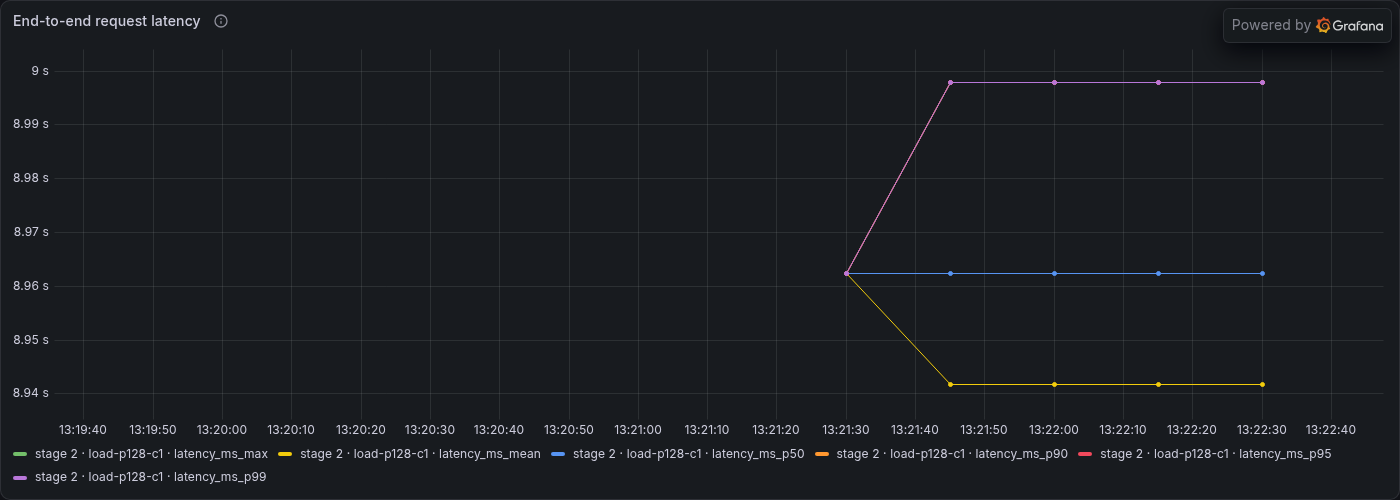
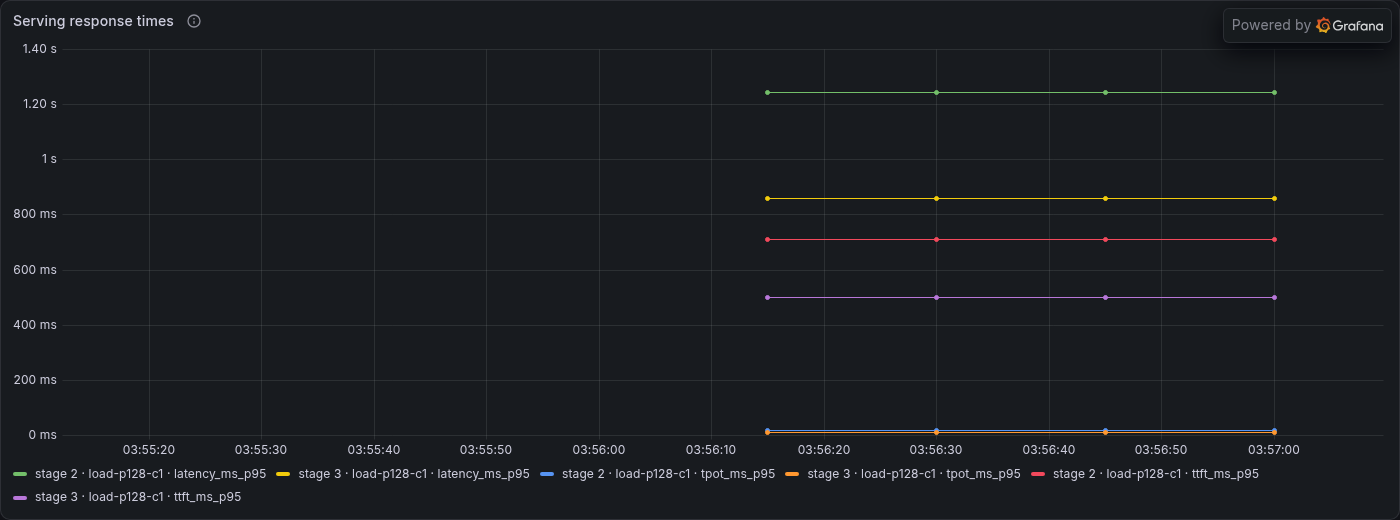
docs: document remote setup and refresh Grafana examples
Clarify local and remote prerequisites, source upgrades, tiny-model validation, SSH architecture, cleanup, and troubleshooting. Replace the previous screenshots with panels from the validated SmolLM2 remote run and describe their measurements and time range.

diff --git a/README.md b/README.md
@@ -1,12 +1,14 @@
 # 📊 ModelGauge
 
-Benchmark GGUF models on a Linux node before deployment: measure **throughput, request latency, and resource use**, watch live Grafana dashboards, and export the evidence.
+Benchmark GGUF models in a Linux VM on your Mac or another Mac over SSH. Measure **throughput, request latency, and resource use**, watch live Grafana dashboards, and export results before deployment.
 
 One Go executable manages one control VM, one benchmark VM, and one selected model. Install multiple models and compare them sequentially using the same YAML workload. Commands run in the foreground; there is no application database, job queue, or automatic recovery. **Run one command at a time**—execution locks do not prevent overlapping commands.
 
 ## 🚀 Install
 
-**Build prerequisites:** Go 1.23.6+, Git, and Make. **Runtime prerequisites:** Lima (`limactl` on PATH with working virtualization) and internet access for VM images, dependencies, containers, and models. Docker Desktop is not required.
+**On the computer running the CLI:** Go 1.23.6+, Git, and Make to build; Lima (`limactl` on PATH with working virtualization) to run the control VM. Internet access is required for images, dependencies, and models. Docker Desktop is not required.
+
+**For a remote benchmark Mac:** macOS 13.5+, hardware virtualization, Remote Login enabled for your account, and network access from the controller. Keep it awake with its lid open. Defaults require at least 32 GiB free disk and enough RAM for a 3 GiB VM plus macOS. ModelGauge installs Lima and the worker remotely; no Homebrew, Go, or manual VM preparation is needed there.
 
 ```sh
 git clone https://github.com/ashwat287/modelGauge.git
@@ -17,68 +19,88 @@ make install
 export PATH="$HOME/.local/bin:$PATH"
 ```
 
-`make install` installs to `~/.local/bin`; override with `BINDIR=/your/bin`. Keep the PATH export in your shell profile. The installed binary bundles Linux ARM64/AMD64 runtimes and deployment assets, so it works after deleting the checkout, without host Go, Git, or Make.
+`make install` installs to `~/.local/bin`; override with `BINDIR=/your/bin`. Keep the PATH export in your shell profile. The installed binary bundles Linux workers, macOS management helpers, and deployment assets for Intel/AMD64 and ARM64. It works after deleting the checkout; copy any example YAML you want to keep first. Go, Git, and Make are only needed again when rebuilding.
 
 ## 🏗 Set up
 
+From the checkout, copy the [small validation plan](examples/remote-smoke.yaml) into a working directory:
+
 ```sh
 mkdir -p "$HOME/modelgauge-lab"
+cp examples/remote-smoke.yaml "$HOME/modelgauge-lab/benchmark.yaml"
 cd "$HOME/modelgauge-lab"
+```
+
+Choose **one** mode for the workspace. Setup provisions infrastructure; it is separate from installing the CLI and needs no source checkout.
+
+### Local: both VMs on this Mac
+
+```sh
 modelgauge setup
 ```
 
-Setup provisions services and builds pinned CPU-only llama.cpp binaries in the benchmark VM. It is separate from installing the CLI and needs no source checkout.
-
-| Default VM | CPUs | RAM | Disk |
-|---|---:|---:|---:|
-| `modelgauge-control` | 4 | 6 GiB | 50 GiB |
-| `benchmark-node` | 2 | 3 GiB | 30 GiB |
-
-Allow host memory **beyond the 9 GiB allocated to VMs**; these defaults are unsuitable for an 8 GiB laptop. To change allocations for newly created VMs:
-
-```sh
-modelgauge setup --control-memory 4 --node-memory 4 --node-cpus 2
-```
-
-Flags do not resize existing VMs. Private configuration and ownership records live in `~/.config/modelgauge/`. For upgrades, reinstall from source and rerun setup while idle. Legacy PostgreSQL workspaces require export and cleanup with the previous version; history is not migrated.
-
-### Benchmark on another Mac over SSH
-
-On the target Mac, enable **Remote Login**, allow your account, and keep the Mac awake and reachable. The supported remote setup requires macOS 13.5+, hardware virtualization, internet access, and enough free disk for the VM. You do not need to install Lima, Homebrew, Go, or ModelGauge there.
+### Remote: benchmark VM on another Mac
 
 ```sh
 modelgauge setup --remote-host your-user@192.168.1.50
 ```
 
-Verify the printed SSH host-key fingerprint and enter the SSH password at the hidden prompt. For key authentication, add `--identity /path/to/private-key` (an unencrypted bootstrap key); `--host-key SHA256:...` supplies an already verified fingerprint without the trust prompt. Credentials are used once and are not saved; dedicated scoped keys are kept privately by the controller.
+Verify the printed host-key fingerprint, type `yes`, and enter the SSH password at the hidden prompt. The target Mac's public fingerprint can be checked there with `ssh-keygen -lf /etc/ssh/ssh_host_ed25519_key.pub`.
 
-The control VM installs pinned Lima in a private directory on the remote Mac, creates a pinned Ubuntu 24.04 **2-vCPU / 3-GiB / 30-GiB VM**, and prepares its worker and llama.cpp. No personal Lima VMs or host-directory mounts are used. Both host and guest SSH keys are pinned. The controller connects through the Mac, so the guest SSH port stays on loopback; the Mac's SSH server must allow TCP forwarding. Subsequent `modelgauge setup` reuses the remote target. Clean up the existing workspace before switching between local and remote nodes.
+For key authentication or a custom SSH port:
 
-Start with the pinned **SmolLM2-135M Instruct Q4_K_M** model (~105 MB) and copy [examples/remote-smoke.yaml](examples/remote-smoke.yaml) into your working directory as `benchmark.yaml`:
+```sh
+modelgauge setup --remote-host your-user@192.168.1.50:2222 \
+  --identity /path/to/private-key \
+  --host-key SHA256:YOUR_VERIFIED_FINGERPRINT
+```
+
+`--identity` accepts an unencrypted bootstrap private key; omit it to use the password prompt. `--host-key` skips the trust prompt only when the fingerprint matches. Supplied passwords and bootstrap private keys are not saved; the controller stores dedicated scoped keys for subsequent operations.
+
+The **control VM** installs private, checksum-verified Lima, creates a pinned Ubuntu 24.04 VM, and prepares CPU-only llama.cpp and the Linux worker. Execution goes through the Mac into the guest over SSH. The guest SSH port stays on loopback; the Mac's SSH server must allow TCP forwarding. Personal Lima instances and host directories are not shared with the benchmark VM.
+
+| VM | CPUs | RAM | Disk | Location |
+|---|---:|---:|---:|---|
+| `modelgauge-control` | 4 | 6 GiB | 50 GiB | Computer running the CLI |
+| `benchmark-node` | 2 | 3 GiB | 30 GiB | Same computer, or remote Mac |
+
+Local defaults allocate **9 GiB on one computer**, which is unsuitable for an 8 GiB laptop. Remote mode splits the allocations between machines. Leave host OS headroom on both. Override resources for new VMs, for example:
+
+```sh
+modelgauge setup --remote-host your-user@192.168.1.50 \
+  --control-memory 4 --node-memory 3 --node-cpus 2 --node-disk 30
+```
+
+Resource flags do not resize existing VMs. Subsequent `modelgauge setup` reuses the configured mode and target. Export needed results and run `modelgauge cleanup --delete-vms` before switching modes. Private local configuration lives in `~/.config/modelgauge/`; remote ownership and execution credentials are retained by the controller.
+
+For source updates, rebuild with `make install` and rerun setup while idle. For a remote target, repeat the `setup --remote-host ...` command with login credentials to update its management helper too. Legacy PostgreSQL history is not migrated; export and clean up with the previous version first.
+
+## 🧪 Install a model and benchmark
+
+Start with the pinned **SmolLM2-135M Instruct Q4_K_M** model (~105 MB). With the example copied above:
 
 ```sh
 modelgauge model install smollm2-135m-instruct:q4_k_m
-modelgauge validate benchmark.yaml
+modelgauge validate benchmark.yaml &&
 modelgauge run benchmark.yaml
-modelgauge export --output ./exports/remote-smoke --include-raw
 ```
 
-The example tests both benchmark stages, threads 1/2, a 128-token prompt, and three short serving requests. Dashboards and the 60-second cooldown work as usual. Results describe the Linux VM, not native macOS. `cleanup --delete-vms` also removes the owned remote VM and private installation; unrelated files and VMs remain intact. An unreachable remote Mac blocks cleanup before the controller is removed.
+Installation downloads on the benchmark node, verifies the checksum, selects the model, and waits for completion. The small example tests threads 1/2, a 128-token prompt, three direct repetitions, and three serving requests with a 32-token output cap. It validates the workflow; use longer runs to assess stability and deployment capacity.
 
-## 🧪 Install a model and benchmark
+To try a larger catalog model:
 
 ```sh
 modelgauge model search qwen
 modelgauge model install qwen2.5-1.5b-instruct:q4_k_m
 ```
 
-Installation downloads on the node, verifies the checksum, and selects the model when complete. The catalog includes Qwen2.5 1.5B Instruct Q4_K_M, Q5_K_M, and Q8_0. For another compatible GGUF:
+The catalog also provides Qwen2.5 1.5B Instruct Q5_K_M and Q8_0. Each successful install selects that model. Both local and remote modes use the same commands and plans. For your own GGUF, supply its HTTPS URL and SHA-256:
 
 ```sh
 modelgauge model install my-model:q4 --url "$MODEL_URL" --sha256 "$MODEL_SHA256"
 ```
 
-Save `benchmark.yaml` outside the checkout:
+For a longer workload, replace `benchmark.yaml` with:
 
 ```yaml
 apiVersion: modelgauge.io/v1alpha1
@@ -133,7 +155,7 @@ To compare another installed model or capture JSON:
 
 ```sh
 modelgauge model list
-modelgauge model use qwen2.5-1.5b-instruct:q5_k_m
+modelgauge model use smollm2-135m-instruct:q4_k_m
 modelgauge run benchmark.yaml
 modelgauge run benchmark.yaml --json > experiment.json
 ```
@@ -211,23 +233,23 @@ Collection spans warmup, stage transitions, and cooldown. Process readings end a
 
 ### Grafana examples
 
-Real Qwen2.5 1.5B Instruct Q4_K_M measurements from a Lima VM; times are UTC. Your results will differ.
+Captured from the **Live experiment** dashboard for the validated **SmolLM2-135M Instruct Q4_K_M** run on the remote Mac's Linux VM. The selected window is **24 November 2026, 22:25:12–22:27:09 UTC**; screenshot axes show **25 November, 03:55–03:57 IST**. Flat segments retain measured results through cooldown; they are not new benchmark samples.
 
-**Throughput:** prompt processing and generation are separate workloads; steps represent newly completed results.
+**Direct throughput:** prompt processing and generation at one and two threads. Compare like workloads; prompt tokens/s and generation tokens/s describe different work.
 
-![Grafana prompt and generation throughput in tokens per second](docs/images/grafana-throughput.png)
+![Grafana direct throughput for SmolLM2 prompt and generation workloads at one and two threads](docs/images/grafana-throughput.png)
 
-**Request latency:** complete-answer timing. Overlapping percentiles in this small run do not establish a reliable production p99.
+**Memory baseline:** the separate memory workload's peak RSS and the 1.25× reservation estimate—about 144 MiB and 180 MiB here. The estimate is not a concurrent-serving guarantee.
 
-![Grafana request latency mean and percentiles](docs/images/grafana-request-latency.png)
+![Grafana measured peak resident memory and suggested memory reservation](docs/images/grafana-memory-baseline.png)
 
-**Process memory:** RSS/PSS by stage; readings end when each owned process exits. Missing samples remain gaps.
+**Serving response times:** p95 total latency and time to first token, plus TPOT in milliseconds per token. These answer different questions; three requests per case do not establish a reliable production p95.
 
-![Grafana process resident and proportional memory](docs/images/grafana-process-memory.png)
+![Grafana serving response times showing latency, time to first token, and time per output token](docs/images/grafana-request-latency.png)
 
-**Node CPU:** workload activity followed by cooldown. About 50% on two vCPUs corresponds to one fully occupied vCPU.
+**Serving throughput:** successful requests per second for the serving stages. Goodput is absent because this example has no configured service targets; an unavailable value is not zero.
 
-![Grafana benchmark-node CPU during workload and cooldown](docs/images/grafana-node-cpu.png)
+![Grafana serving throughput for the two serving stages](docs/images/grafana-serving-throughput.png)
 
 ### Inspect and export
 
@@ -241,27 +263,35 @@ modelgauge export --output ./exports/baseline --include-raw
 
 Results and exports default to the latest completed run; use `--experiment NAME` for history. The recommender selects measured direct settings with relative deviation at most 10% and checks the 1.25× RSS estimate against your budget. It does not grade quality or optimize serving concurrency.
 
-Exports include JSON/CSV measurements, plans/results, metrics, a manifest, and checksums. `--include-raw` retrieves node evidence. Optional Prometheus-history flags are listed in `modelgauge export --help`.
+Exports include JSON/CSV measurements, plans/results, metrics, a manifest, and checksums. `--include-raw` retrieves node evidence, including from remote VMs through the controller. Optional Prometheus-history flags are listed in `modelgauge export --help`.
 
 ## 🔌 Architecture
+
+Remote mode:
 
 ```mermaid
 flowchart LR
   CLI[Host CLI] -->|Foreground HTTP stream| C
   subgraph Control[Control Linux VM · k3s]
-    C[Controller + executor + live snapshot] --> F[Configuration + completed result files]
+    C[Controller + executor] --> F[Configuration + completed results]
     P[Prometheus] -->|Scrape| C
     G[Grafana] -->|Query| P
   end
-  C -->|Pinned SSH · plan, progress and measurements| W
-  subgraph Node[Benchmark Linux VM]
-    W[Temporary supervised worker] --> B[llama-bench]
-    W --> S[Temporary llama-server]
-    W --> E[Installed models + raw evidence]
+  C -->|Pinned SSH| H
+  subgraph Mac[Remote benchmark Mac]
+    H[SSH + scoped Lima management] -->|Create and manage| Node
+    H -->|Pinned guest SSH| W
+    subgraph Node[Ubuntu benchmark VM]
+      W[Temporary worker] --> B[llama-bench]
+      W --> S[Temporary llama-server]
+      W --> E[Models + raw evidence]
+    end
   end
 ```
 
-For remote targets, SSH goes through the target Mac into its owned Linux VM; the controller also manages that VM over the same host connection. The controller owns execution through one restricted, host-key-pinned SSH interface. The node needs neither k3s nor a resident agent. **llama-bench exits before llama-server starts**; they never run together. Owned process groups are stopped and reaped on interruption or supervised connection loss. A temporary observer handles cooldown, then exits.
+In local mode, both VMs run on the CLI computer and the controller connects directly to the benchmark VM. In either mode, the Linux node needs neither k3s nor a resident agent. **llama-bench exits before llama-server starts**; they never run together. Measurements and progress return over SSH, while serving requests stay inside the benchmark VM, excluding inter-laptop network latency.
+
+Owned processes are stopped and reaped on interruption or supervised connection loss. A temporary observer handles the 60-second cooldown, then exits; Grafana remains available.
 
 Benchmark modules own planning, execution, reports, and metrics; platform code transports common plan/result envelopes. Completed configuration/results persist, but interrupted operations are not restored.
 
@@ -277,12 +307,21 @@ modelgauge cleanup --delete-vms         # Also delete ModelGauge-created VMs
 modelgauge cleanup --force --delete-vms # Stop owned work and delete created VMs
 ```
 
+Remote resources are cleaned before the local controller. With `--delete-vms`, cleanup also removes the owned remote VM, private Lima installation, and management key; the Mac and unrelated files/VMs are preserved. Without VM deletion, the remote management installation is retained with the VM. An unreachable remote Mac blocks cleanup so the controller and ownership records remain available.
+
 Cleanup prints plain text; add `--json` for scripts. Active work causes an error suggesting `--force`. Force retains ownership/identity checks and does not stop unrelated processes or expand deletion scope; stopping managed work requires a reachable controller. Checks are best-effort, so avoid concurrent commands.
 
-For SSH failures, fix the VM/network issue, refresh registration, then rerun the command:
+| Problem | Action |
+|---|---|
+| `flag provided but not defined: -remote-host` | Run `make install` from the updated checkout; check `command -v modelgauge` and `modelgauge setup --help`. |
+| SSH connection timeout | Keep the target awake, confirm Remote Login and network access, and try its current IP instead of `.local`. A TCP timeout happens before password authentication. |
+| Host-key mismatch | Verify the target's identity before proceeding; do not bypass the check. |
+| No selected model | Run `modelgauge model install MODEL` or select an installed model with `modelgauge model use MODEL`. |
+
+After fixing a VM/network problem, verify or refresh its connection, then rerun the interrupted command:
 
 ```sh
 modelgauge node reconnect
 ```
 
-Reconnect does not restart a broken VM or resume work. See `modelgauge --help` and `<command> --help` for flags.
+Reconnect does not resume experiments. The remote connection can start its verified owned VM if stopped; a missing or broken VM needs setup or repair. See `modelgauge --help` and `<command> --help` for flags.
